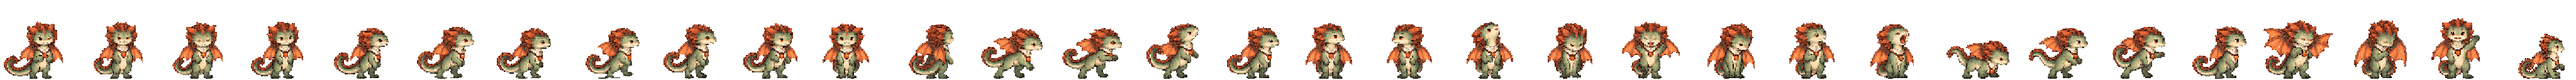
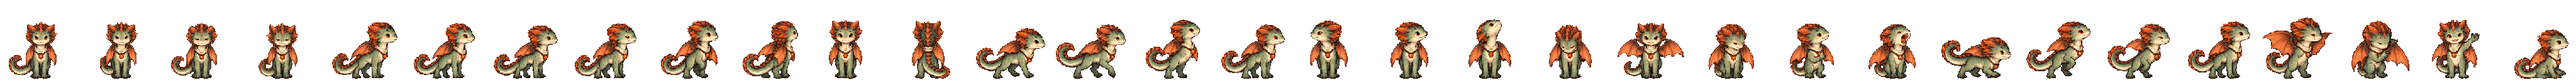
Align living character sprites with existing game art

Changed region(s): [[0.0, 0.2188, 1.0, 1.0]]

diff --git a/tools/character-art/living_atlases.js b/tools/character-art/living_atlases.js
@@ -64,7 +64,7 @@ function crop(im,x,y,w,h) {
 
 function trim(im) { const b=bounds(im);return crop(im,b.x0,b.y0,b.width,b.height); }
 
-async function place(art,factor,baseline,axis=64,contact=false) {
+async function place(art,factor,baseline,axis=64,contact=false,cell=FRAME) {
   const width=Math.max(1,Math.round(art.width*factor)),height=Math.max(1,Math.round(art.height*factor));
   const data=await sharp(art.data,{raw:{width:art.width,height:art.height,channels:4}})
     .resize(width,height,{kernel:'nearest'}).raw().toBuffer();
@@ -75,26 +75,47 @@ async function place(art,factor,baseline,axis=64,contact=false) {
     if(max>=0)cx=(min+max)/2;
   }
   // Breite Fluegel haben Vorrang vor einer idealen Achse; nie am Bildrand abschneiden.
-  const dx=Math.max(2,Math.min(126-width,Math.round(axis-cx))),dy=baseline-height+1;
-  if(dx<2 || dx+width>126 || dy<2 || baseline>125)throw Error('Pose passt nicht ins Spielraster');
-  const out=Buffer.alloc(FRAME*FRAME*4);
-  for(let y=0;y<height;y++)data.copy(out,((y+dy)*FRAME+dx)*4,y*width*4,(y+1)*width*4);
-  return {data:out,width:FRAME,height:FRAME};
+  const dx=Math.max(2,Math.min(cell-2-width,Math.round(axis-cx))),dy=baseline-height+1;
+  if(dx<2 || dx+width>cell-2 || dy<2 || baseline>cell-3)throw Error('Pose passt nicht ins Spielraster');
+  const out=Buffer.alloc(cell*cell*4);
+  for(let y=0;y<height;y++)data.copy(out,((y+dy)*cell+dx)*4,y*width*4,(y+1)*width*4);
+  return {data:out,width:cell,height:cell};
 }
 
 function join(frames,columns) {
-  const width=columns*FRAME,height=frames.length/columns*FRAME,data=Buffer.alloc(width*height*4);
+  const cell=frames[0].width;
+  const width=columns*cell,height=frames.length/columns*cell,data=Buffer.alloc(width*height*4);
   frames.forEach((fr,i)=>{
-    const x=i%columns*FRAME,y=Math.floor(i/columns)*FRAME;
-    for(let j=0;j<FRAME;j++)fr.data.copy(data,((y+j)*width+x)*4,j*FRAME*4,(j+1)*FRAME*4);
+    const x=i%columns*cell,y=Math.floor(i/columns)*cell;
+    for(let j=0;j<cell;j++)fr.data.copy(data,((y+j)*width+x)*4,j*cell*4,(j+1)*cell*4);
   });
   return {data,width,height};
 }
 
-async function save(im,file) {
+function paletteOf(im) {
+  const colors=new Map();
+  for(let p=0;p<im.data.length;p+=4)if(im.data[p+3]){
+    const key=im.data.readUIntBE(p,3);colors.set(key,[im.data[p],im.data[p+1],im.data[p+2]]);
+  }
+  return [...colors.values()];
+}
+
+async function save(im,file,canonicalPalette) {
+  if(canonicalPalette) {
+    // Dieselben Farbwerte wie Gang/Blinzeln/Handlungen, statt einer zweiten 63-Farben-Palette.
+    const mapped=new Map();
+    for(let p=0;p<im.data.length;p+=4)if(im.data[p+3]){
+      const key=im.data.readUIntBE(p,3);let rgb=mapped.get(key);
+      if(!rgb){const r=im.data[p],g=im.data[p+1],b=im.data[p+2];let best=Infinity;
+        for(const col of canonicalPalette){const d=(r-col[0])**2+(g-col[1])**2+(b-col[2])**2;if(d<best){best=d;rgb=col;}}
+        mapped.set(key,rgb);
+      }
+      im.data[p]=rgb[0];im.data[p+1]=rgb[1];im.data[p+2]=rgb[2];
+    }
+  }
   const colors=new Set();
   for(let p=0;p<im.data.length;p+=4)if(im.data[p+3])colors.add(im.data.readUIntBE(p,3));
-  if(colors.size>63) {
+  if(!canonicalPalette && colors.size>63) {
     const hist=new Map();
     for(let p=0;p<im.data.length;p+=4)if(im.data[p+3]){
       const r=im.data[p],g=im.data[p+1],b=im.data[p+2],key=(r>>4)*256+(g>>4)*16+(b>>4);
@@ -128,14 +149,18 @@ async function save(im,file) {
   fs.writeFileSync(file,PNG.sync.write(im,{colorType:6,filterType:4,deflateLevel:9}));
 }
 
-async function build(rawDirectory,postureFile) {
+async function build(rawDirectory,postureFile,options={}) {
   const postures=postureFile?figures(postureFile,12):null;
-  const manifest={version:1,frame:128,columns:4,rows:8,gutter:26,ground:125,species:{}};
+  const manifest={version:2,frame:128,columns:4,rows:8,gutter:26,ground:125,masterCell:256,palette:'existing-game',species:{}};
   for(const name of NAMES) {
     const source=path.join(SOURCE,`${name}-living-atlas.png`);
+    const master=path.join(SOURCE,`${name}-living-master.png`);
+    const old=PNG.sync.read(fs.readFileSync(path.join(ASSETS,`${name}.png`)));
+    const palette=paletteOf(old);
     if(rawDirectory) {
-      const art=figures(path.join(rawDirectory,`${name}.png`));
-      if(postures && ['fennec','puffling','wyrmling'].includes(name)) {
+      let art=figures(path.join(rawDirectory,`${name}.png`));
+      if(options.order?.[name])art=options.order[name].map(i=>art[i]);
+      if(postures && (options.postureNames||['fennec','puffling','wyrmling']).includes(name)) {
         const row=['fennec','puffling','wyrmling'].indexOf(name)*4;
         const seated=postures[row+3],factor=art[4].height/postures[row].height;
         const width=Math.round(seated.width*factor),height=Math.round(seated.height*factor);
@@ -144,12 +169,14 @@ async function build(rawDirectory,postureFile) {
       }
       const factor=74/Math.max(...art.map(a=>Math.max(a.width,a.height)));
       const packed=await Promise.all(art.map(a=>place(a,factor,101)));
-      await save(join(packed,4),source);
+      await save(join(packed,4),source,palette);
+      // Die kleine 4x8-Vorschau ist kein Export-Master: Rueckvergroessern verlor Gesichtsdetails.
+      const masterFactor=152/Math.max(...art.map(a=>Math.max(a.width,a.height)));
+      await save(join(await Promise.all(art.map(a=>place(a,masterFactor,203,127.5,false,256))),4),master,palette);
     }
-    const packed=PNG.sync.read(fs.readFileSync(source));
-    if(packed.width!==512 || packed.height!==1024)throw Error('Atlas muss exakt 512 x 1024 sein');
-    const art=Array.from({length:32},(_,i)=>trim(crop(packed,i%4*128,Math.floor(i/4)*128,128,128)));
-    const old=PNG.sync.read(fs.readFileSync(path.join(ASSETS,`${name}.png`)));
+    const packed=PNG.sync.read(fs.readFileSync(master));
+    if(packed.width!==1024 || packed.height!==2048)throw Error('Master muss exakt 1024 x 2048 sein');
+    const art=Array.from({length:32},(_,i)=>trim(crop(packed,i%4*256,Math.floor(i/4)*256,256,256)));
     const stand=crop(old,0,0,128,128),oldHeight=bounds(stand).height;
     const factor=Math.min(oldHeight/art[4].height,112/Math.max(...art.map(a=>a.width)),122/Math.max(...art.map(a=>a.height)));
     let supportMin=128,supportMax=-1;
@@ -166,9 +193,9 @@ async function build(rawDirectory,postureFile) {
     // bleibt unveraendert; die untersten zwei Kontaktzeilen werden registriert.
     for(const start of [0,4])for(let i=start+1;i<start+4;i++)
       frames[start].data.copy(frames[i].data,124*128*4,124*128*4);
-    await save(join(frames,32),path.join(ASSETS,`${name}-living.png`));
+    await save(join(frames,32),path.join(ASSETS,`${name}-living.png`),palette);
     const nativeHeight=bounds(frames[4]).height;
-    manifest.species[name]={oldHeight,nativeHeight,renderScale:Number((oldHeight/nativeHeight).toFixed(6))};
+    manifest.species[name]={oldHeight,nativeHeight,renderScale:Number((oldHeight/nativeHeight).toFixed(6)),samplingFactor:Number(factor.toFixed(6))};
     console.log(name,manifest.species[name]);
   }
   fs.writeFileSync(path.join(SOURCE,'living-atlas-manifest.json'),JSON.stringify(manifest,null,2)+'\n');

diff --git a/tools/character-art/test_living_atlases.js b/tools/character-art/test_living_atlases.js
@@ -13,16 +13,28 @@ async function test() {
   for(const name of names) {
     const atlas=PNG.sync.read(fs.readFileSync(path.join(source,`${name}-living-atlas.png`)));
     assert.equal(atlas.width,512);assert.equal(atlas.height,1024);
+    const legacy=PNG.sync.read(fs.readFileSync(path.join(assets,`${name}.png`)));
+    const palette=new Set();
+    for(let p=0;p<legacy.data.length;p+=4)if(legacy.data[p+3])palette.add(legacy.data.subarray(p,p+3).toString('hex'));
     const colors=new Set();
     for(let y=0;y<1024;y++)for(let x=0;x<512;x++) {
       const p=(y*512+x)*4,a=atlas.data[p+3];
       assert.ok(a===0 || a===255,`${name}: weicher Alpha`);
-      if(a){assert.ok(x%128>=26 && x%128<=101 && y%128>=26 && y%128<=101,`${name}: fehlender 20%-Rand`);colors.add(atlas.data.subarray(p,p+4).toString('hex'));}
+      if(a){assert.ok(x%128>=26 && x%128<=101 && y%128>=26 && y%128<=101,`${name}: fehlender 20%-Rand`);colors.add(atlas.data.subarray(p,p+3).toString('hex'));}
     }
-    assert.ok(colors.size<=64,`${name}: Palette`);
+    assert.ok([...colors].every(c=>palette.has(c)),`${name}: zweite Farbwelt im kleinen Atlas`);
+    const master=PNG.sync.read(fs.readFileSync(path.join(source,`${name}-living-master.png`)));
+    assert.equal(master.width,1024);assert.equal(master.height,2048);
+    for(let y=0;y<2048;y++)for(let x=0;x<1024;x++)if(master.data[(y*1024+x)*4+3]){
+      assert.ok(x%256>=52 && x%256<=203 && y%256>=52 && y%256<=203,`${name}: Master-Rand`);
+    }
     const file=path.join(assets,`${name}-living.png`),bytes=fs.readFileSync(file);
     before.set(file,bytes);
     const sheet=PNG.sync.read(bytes);assert.equal(sheet.width,4096);assert.equal(sheet.height,128);
+    for(let p=0;p<sheet.data.length;p+=4)if(sheet.data[p+3]){
+      assert.equal(sheet.data[p+3],255,`${name}: weicher Alpha im Spiel`);
+      assert.ok(palette.has(sheet.data.subarray(p,p+3).toString('hex')),`${name}: Spiel-Farbwert fehlt im vorhandenen Bogen`);
+    }
     const frames=Array.from({length:32},(_,i)=>crop(sheet,i*128,0,128,128));
     for(let i=0;i<32;i++) {
       const b=bounds(frames[i]);
@@ -36,7 +48,10 @@ async function test() {
     }
     assert.ok(bounds(frames[31]).height < bounds(frames[4]).height,`${name}: Sitzen wird vergroessert`);
     const m=manifest.species[name];
+    assert.ok(m.samplingFactor<=1,`${name}: verlorene Aufloesung wird hochskaliert`);
     assert.ok(Math.abs(bounds(frames[4]).height*m.renderScale-m.oldHeight)<.01,`${name}: Weltgroesse`);
+    const frontHeight=bounds(crop(legacy,27*128,0,128,128)).height;
+    assert.ok(Math.abs(bounds(frames[0]).height*m.renderScale-frontHeight)/frontHeight<.08,`${name}: Frontgroesse springt beim Gang-/Ruhewechsel`);
     const kotlin=fs.readFileSync(path.resolve(__dirname,'../../app-sim/src/main/java/com/notime/glyphsim/matrix/CreatureSprites.kt'),'utf8');
     const section=kotlin.slice(kotlin.indexOf('object Living {'));
     const match=section.match(new RegExp('AvatarSpecies\\.'+name.toUpperCase()+' -> ([0-9.]+)f'));

diff --git a/app-sim/src/main/java/com/notime/glyphsim/matrix/CreatureSprites.kt b/app-sim/src/main/java/com/notime/glyphsim/matrix/CreatureSprites.kt
@@ -351,10 +351,10 @@ object CreatureSprites {
 
         // Der Export behaelt die alte Standhoehe auch bei breiten Fluegeln/Schweifen.
         fun scaleFor(species: AvatarSpecies): Float = when (species) {
-            AvatarSpecies.FENNEC -> 1.048077f
+            AvatarSpecies.FENNEC -> 1f
             AvatarSpecies.GLOOP -> 1f
             AvatarSpecies.PUFFLING -> 1f
-            AvatarSpecies.WYRMLING -> 1.160494f
+            AvatarSpecies.WYRMLING -> 1.032967f
             AvatarSpecies.STARLET -> 1f
             AvatarSpecies.HOOTLET -> 1f
         }

diff --git a/tools/character-art/preview_living_coherence.py b/tools/character-art/preview_living_coherence.py
@@ -1,0 +1,68 @@
+"""Vergleicht echte exportierte Frames, einschliesslich der bisher ausgelassenen Gangwechsel."""
+from io import BytesIO
+from pathlib import Path
+import json
+import subprocess
+from PIL import Image, ImageDraw, ImageFont
+
+ROOT = Path(__file__).resolve().parents[2]
+HERE = Path(__file__).resolve().parent
+BASELINE = "9012dae10dd8ab5385d0e3a1131713e98af6a1b8"
+NAMES = ["fennec", "gloop", "puffling", "wyrmling", "starlet", "hootlet"]
+SCALES = dict(zip(NAMES, [.82, 1.16, 1.28, 1.13, .98, 1.18]))
+MANIFEST = "tools/character-art/source/living-atlas-manifest.json"
+OLD = json.loads(subprocess.check_output(["git", "show", f"{BASELINE}:{MANIFEST}"], cwd=ROOT))
+NEW = json.loads((ROOT / MANIFEST).read_text())
+try:
+    FONT = ImageFont.truetype("DejaVuSans.ttf", 18)
+except OSError:
+    FONT = ImageFont.load_default()
+
+def strip(name, living=False, before=False):
+    file = f"app-sim/src/main/assets/creatures/{name}{'-living' if living else ''}.png"
+    data = subprocess.check_output(["git", "show", f"{BASELINE}:{file}"], cwd=ROOT) if before else (ROOT / file).read_bytes()
+    return Image.open(BytesIO(data)).convert("RGBA")
+
+SHEETS = {(n, extra, before): strip(n, extra, before) for n in NAMES for extra in [False, True] for before in [False, True]}
+
+def paint(canvas, name, extra, frame, before, x, ground, width=300):
+    factor = 2 * SCALES[name]
+    if extra:
+        factor *= (OLD if before else NEW)["species"][name]["renderScale"]
+    sheet = SHEETS[name, extra, before]
+    tile = sheet.crop((frame * 128, 0, (frame + 1) * 128, 128))
+    size = round(128 * factor)
+    tile = tile.resize((size, size), Image.Resampling.NEAREST)
+    canvas.paste(tile, (round(x + (width - size) / 2), round(ground - 126 * factor)), tile)
+
+comparison = Image.new("RGB", (1320, 1740), "#e1e4df")
+draw = ImageDraw.Draw(comparison)
+for c, label in enumerate(["Bisheriger Gang", "Korrigierte Ruhe", "Bisherige Front", "Korrigierte Front"]):
+    draw.text((c * 330 + 10, 12), label, font=FONT, fill="#252a27")
+for r, name in enumerate(NAMES):
+    draw.text((10, r * 280 + 47), name, font=FONT, fill="#252a27")
+    for c, (extra, frame) in enumerate([(False, 9), (True, 4), (False, 27), (True, 0)]):
+        paint(comparison, name, extra, frame, False, c * 330, r * 280 + 290)
+comparison.save(HERE / "living-coherence-comparison.png")
+
+# Gezeichnete Frames beider Familien wirklich abwechseln: die erste Vorschau zeigte nur neue Posen.
+sequence = ([(True, i, 450) for i in range(4, 8)] + [(True, 12, 120), (True, 13, 120)]
+            + [(False, i, 95) for i in list(range(9, 17)) * 2]
+            + [(True, 14, 120), (True, 15, 120), (True, 4, 450), (True, 9, 85), (True, 10, 85)]
+            + [(True, i, 450) for i in range(4)] + [(False, 55, 160), (True, 0, 450)]
+            + [(False, i, 200) for i in range(84, 88)] + [(True, i, 120) for i in range(24, 28)]
+            + [(True, 31, 650)])
+images = []
+for extra, frame, duration in sequence:
+    canvas = Image.new("RGB", (740, 1740), "#e1e4df")
+    draw = ImageDraw.Draw(canvas)
+    draw.text((90, 12), "Erste Integration", font=FONT, fill="#252a27")
+    draw.text((430, 12), "Korrigierter Export", font=FONT, fill="#252a27")
+    for r, name in enumerate(NAMES):
+        draw.text((10, r * 280 + 47), name, font=FONT, fill="#252a27")
+        for c, before in enumerate([True, False]):
+            paint(canvas, name, extra, frame, before, 70 + c * 335, r * 280 + 290)
+    images.append(canvas)
+images[0].save(HERE / "living-atlas-preview.gif", save_all=True, append_images=images[1:],
+               duration=[duration for _, _, duration in sequence], loop=0, disposal=2)
+print("Vergleich und Gang-/Blinzel-/Landungswechsel exportiert; keine APK-Aufnahme.")

diff --git a/tools/character-art/source/living-atlas-prompts.md b/tools/character-art/source/living-atlas-prompts.md
@@ -11,7 +11,10 @@ Die bestehenden Ensemble-/Mobility-Prompts bleiben die Stilvorlage.
 
 `*-living-atlas.png`: genau 512x1024, vier Spalten, acht Zeilen,
 128px-Zellen, mindestens 26px transparenter Rand pro Zellenseite,
-63 gemeinsame opake Farben plus Transparenz. Kein Artwork wird an festen
+Farbwerte ausschliesslich aus dem vorhandenen Spielbogen derselben Figur.
+`*-living-master.png`: 1024x2048, 256px-Zellen, mindestens 52px Rand;
+diese hoeher aufgeloesten Quellen speisen den Spieleexport ohne Vergroesserung.
+Kein Artwork wird an festen
 Rohbild-Zellengrenzen abgeschnitten: erst 32 vollstaendige Komponenten erkennen,
 danach mit EINEM Massstab pro Charakter registrieren. Sitzkorrekturen werden
 an der daneben gezeichneten Standanatomie kalibriert, nicht an der Zellhoehe.
@@ -32,8 +35,8 @@ node tools/character-art/test_living_atlases.js
 
 Nur ein erneuter Rohbildimport braucht `--import RAW_DIRECTORY` mit sechs PNGs.
 Die zusaetzliche anatomische Sitzquelle kann dabei mit
-`--posture POSTURE_PNG` angegeben werden. Die abgenommenen 4x8-Atlanten
-sind die vollstaendige, direkt reproduzierbare Importquelle im Repository.
+`--posture POSTURE_PNG` angegeben werden. Die eingecheckten 4x8-Master
+sind die vollstaendige, direkt reproduzierbare Exportquelle im Repository.
 
 ## Laufzeit und Abnahme
 
@@ -159,3 +162,37 @@ ROW1 FENNEC corrected reference1: orange cream fox enormous upright ears amber e
 ROW2 PUFFLING reference2: round cream cloud fluffy creature blue-grey tufts tiny blue feet sage hood leaf clasp brown satchel. c1 standing supported by tiny short springy legs under fleece; c2 lowering with short legs folding; c3 FULLY SEATED two tiny blue feet forward puffy arms resting, same ROUND HEAD/HOOD SIZE, support legs folded so overall25% lower; c4 same seated with tiny foot/hand fidget. No boots/long legs or squashed face, eyes OPEN.
 ROW3 WYRMLING reference3: slim jade dragon cream throat/belly rusty copper wings/fingers shortcurved horns rustycrest long tapered rust-spiked tail copper shoulder strap amber pendant creamscarf. c1 upright TWO hind feet straight support legs; c2 halfway lowering pelvis as hind knees fold; c3 FULLY SEATED pelvis grounded folded hind legs claws forward forepaws rest, exactsame HEAD/HORNS SIZE and wings folded, overall30% lower than c1; c4 same seated posture small claw/tail fidget. No flight, eyesOPEN.
 The key requirement is standing vs seated HEIGHT DIFFERENCE by joint articulation with IDENTICAL HEAD SCALE within each row. Do not make 12 equally tall figures.
+
+
+## Kohärenz-Korrektur nach Nutzerfeedback, v2
+
+Der v1-Export war als Übergang zwischen altem Gang und neuem Stand nicht ausreichend konsistent.
+Die dort genannte eigene 63-Farben-Palette und das Rückvergrößern der kleinen Quelle sind ersetzt:
+Die sechs `*-living-master.png` sind 1024 x 2048, 4 x 8 Zellen à 256px mit mindestens 52px Rand.
+Sie sind die reproduzierbaren Spiel-Exportquellen. Die `*-living-atlas.png` bleiben 512 x 1024
+für die 128px-Zellvorschau. Das Spiel nutzt 4096 x 128, 32 Bilder, aus dem höher aufgelösten Master.
+Farbwerte stammen direkt aus `app-sim/src/main/assets/creatures/{species}.png`; kein zweites Farbsystem.
+
+Regeneration: `node tools/character-art/living_atlases.js`.
+Prüfung: `node tools/character-art/test_living_atlases.js`.
+Vergleich inkl. Gang/Blinzeln/Landung: `python tools/character-art/preview_living_coherence.py`.
+Die Vorschau zeigt echte exportierte Bildrollen, keine APK-Aufnahme und keinen Nachweis einer perfekten Anatomie.
+
+Die Korrekturen entstanden mit integriertem ImageGen. Identitätsreferenzen sind die tatsächlichen
+128px-Spielbilder: seitlicher Stand, Front, Rücken, zwei Gangphasen, Dreiviertelansicht. Die erste
+Fennec-Korrektur allein passte noch nicht; gewählt ist die anschließende Proportionskorrektur.
+Wyrmlings neue Turn-Zeichnungen 9/10 kamen vertauscht zurück und werden beim Import getauscht.
+Nur Pufflings Sitzbild braucht weiter die bestehende separate Sitzkorrektur; Fennec/Wyrmling nutzen
+jetzt ihre eigenen neuen Sitzzeichnungen. Die alten Gang- und Aktionsbilder sind unverändert.
+
+### Fennec: Identitätskorrektur (erster Versuch)
+
+undefined
+
+### Fennec: gewählte Proportionskorrektur
+
+undefined
+
+### Wyrmling: gewählte Identitäts-/Proportionskorrektur
+
+undefined

diff --git a/EVOLUTION.md b/EVOLUTION.md
@@ -669,6 +669,39 @@ sein:
 Die Historie darf nicht zu einer bloßen Commit-Liste werden. Sie soll erklären, warum sich Itoeva
 verändert hat, welche Identität dabei geschützt wurde und welche Unsicherheit weiterhin besteht.
 
+### 2026-10-10 - Zusammenpassende Figuren beim Animationswechsel (living-atlases-v2)
+
+- **DOCUMENTED INTENT:** Martin meldet nach PR #353, dass die Veraenderungen
+  der Figuren nicht genau zusammenpassen. Der direkte Vergleich von altem
+  Gang/Blinzeln und neuen Ruheposen bestaetigt Proportions- und Stilbrueche.
+- **Beobachteter Fehler:** Die 128px-Quellzellen begrenzten die Zeichnung auf
+  74px, bevor der Spieleexport sie wieder bis 109px vergroesserte. Ausserdem
+  erhielt die neue Familie eine eigene 63-Farben-Palette, obwohl die vorhandenen
+  gezeichneten Animationen deutlich mehr Farbwerte haben. Besonders Fennecs
+  grosser Kopf/kurzer Koerper und Wyrmlings Kopfform fielen beim Wechsel auf.
+- **Aenderung:** Die sechs 4x8-Master mit 256px-Zellen behalten die Aufloesung
+  bis zum einmaligen Herunterskalieren auf die 128px-Spielbilder. Alle neuen
+  Spiel-/Vorschaubilder nutzen ausschliesslich Farbwerte aus dem vorhandenen
+  Bogen derselben Figur. Fennec und Wyrmling sind anhand echter Spiel-Frames
+  korrigiert; Wyrmlings vertauschte Wendebilder sind einsortiert. Die kleine
+  4x8-Vorschau bleibt vorhanden, ist aber keine Quelle fuer das Spielbild mehr.
+- **Geschuetzt:** Die 138 vorhandenen Rollen, Gang-/Aktionszeiten, Futterwirkung,
+  Reminder, Agentenziele, Spielphysik und Speicherung bleiben unberuehrt.
+- **Evidenz:** Assetpruefung fuer alle 192 Bilder, feste Bodenkontakte, mindestens
+  20 Prozent Rand, keine Hochskalierung, identische bestehende Farbwerte,
+  Frontgroesse innerhalb acht Prozent der vorhandenen Frontansicht und
+  byte-identische Regeneration. Kotlin-/Android-Ergebnisse stehen im Folge-PR.
+  Der Vergleich zeigt jetzt ausdruecklich alte/neue Bilder im Wechsel, nicht
+  nur die neuen Posen isoliert.
+- **UNVERIFIED / Grenzen:** Das sind separat gezeichnete Bilder, kein gemeinsam
+  geriggtes Koerpermodell: feine Gesichts-/Zubehoerdetails und einzelne
+  Dreiviertel-Blickposen bleiben visuell zu beurteilen. Vorschau ist keine
+  APK-Aufnahme; Handyabnahme bleibt offen. Kein Anspruch auf pixelidentische
+  Anatomie allein aus bestandenen technischen Tests.
+- **Ruecksetzung / naechster Schritt:** Ruecknahme dieses Folge-Commits braucht
+  keine Migration. Vergleich in `tools/character-art/living-coherence-comparison.png`
+  und `living-atlas-preview.gif`, anschliessend dieselben Wechsel am Handy ansehen.
+
 ### 2026-10-10 - Gezeichnete Ruhe und Bewegungsuebergaenge (living-atlases-v1)
 
 - **DOCUMENTED INTENT:** Martin beauftragt sechs neue 4x8-Atlanten nach seinen
